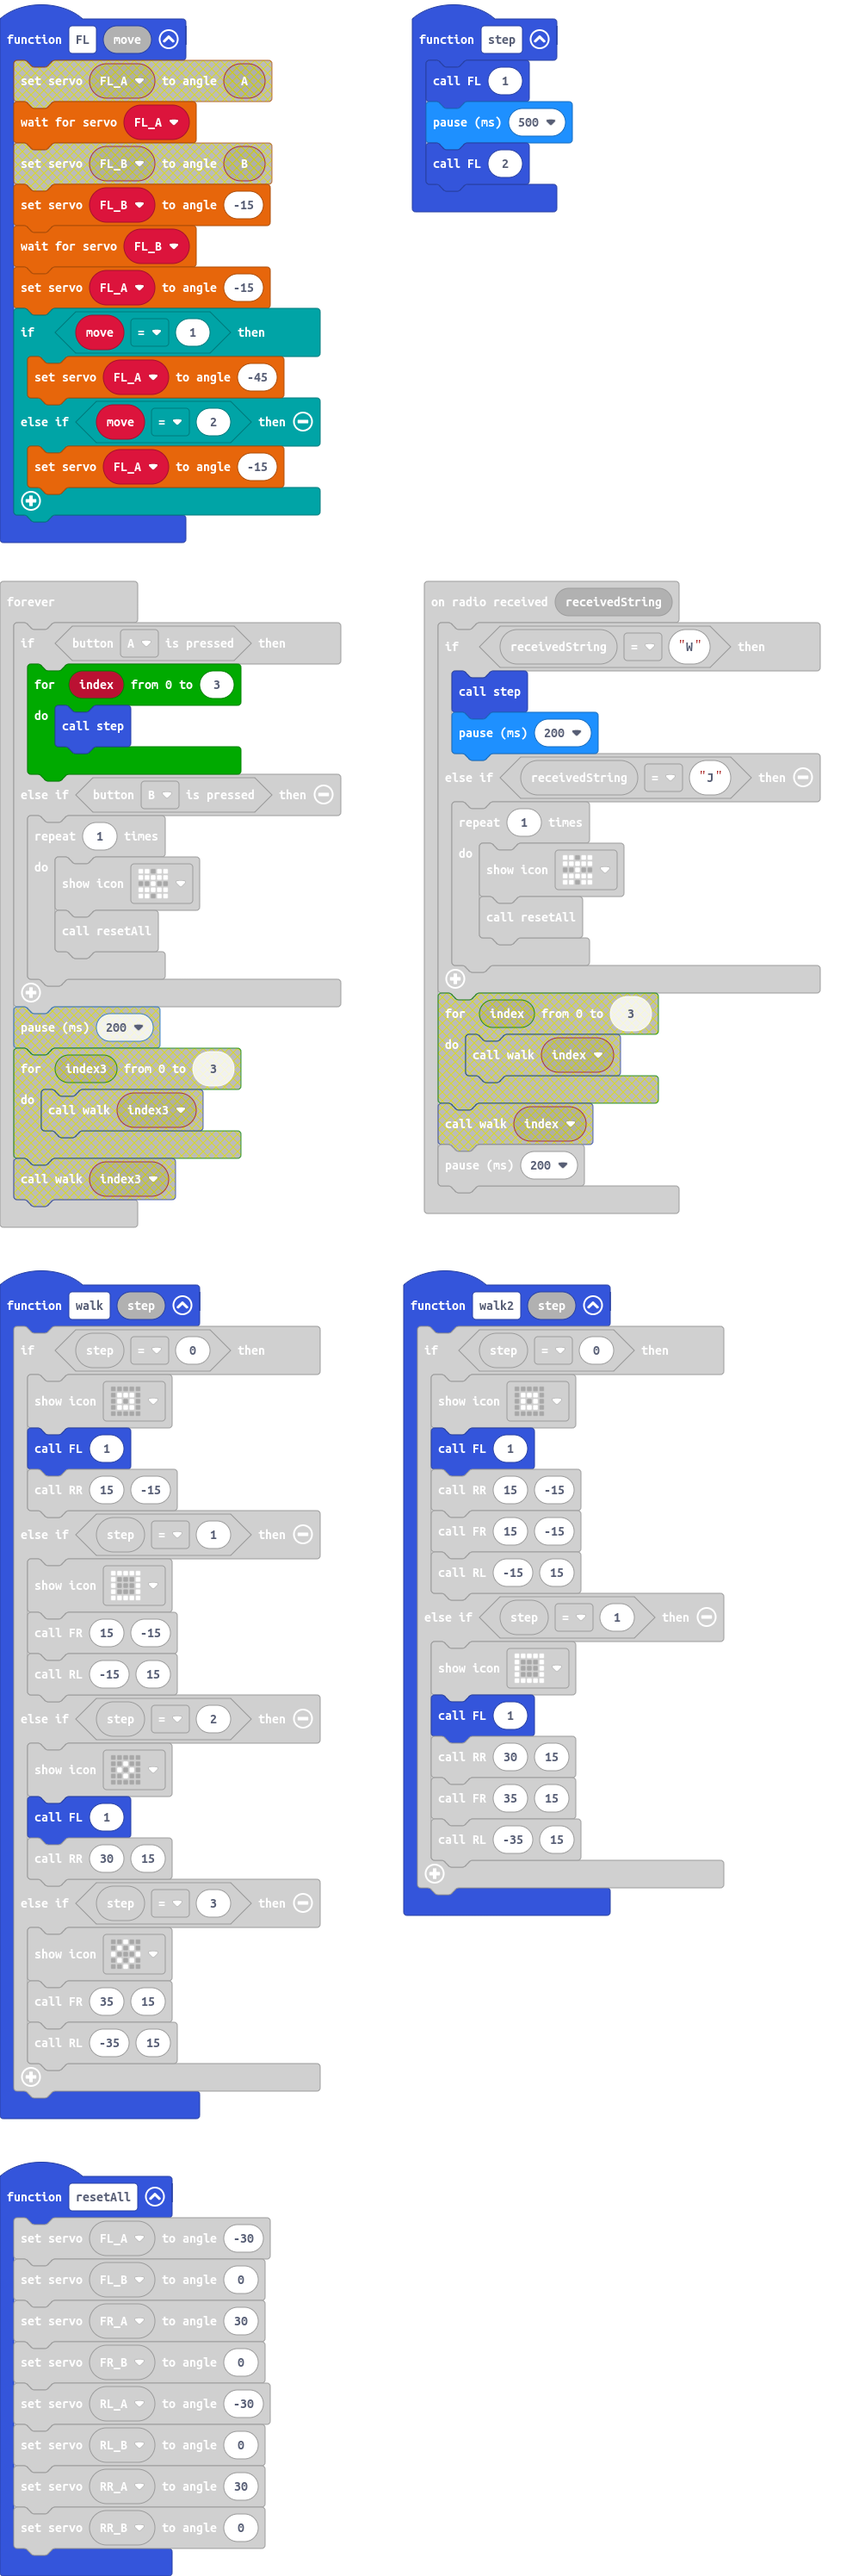
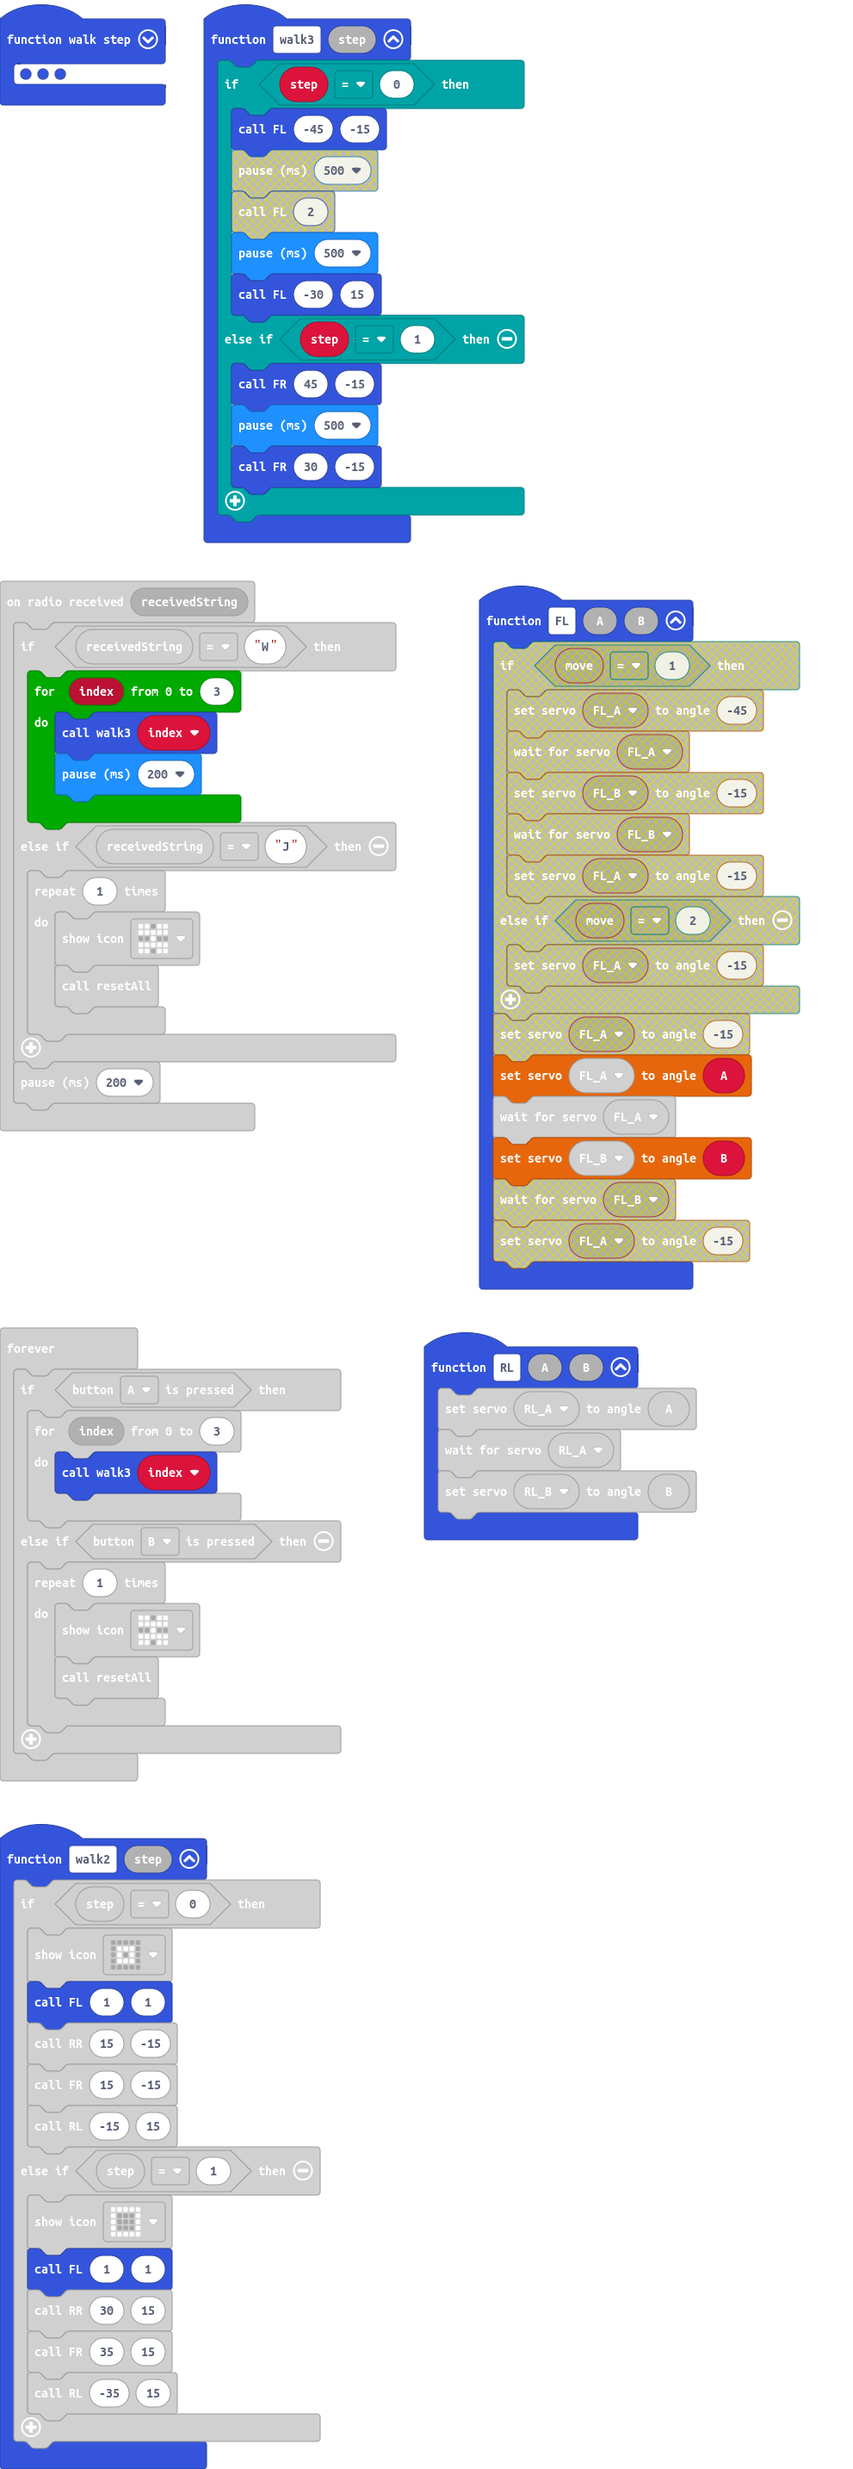
walk 3 is test steps in the two front legs

diff --git a/main.ts b/main.ts
@@ -3,36 +3,36 @@ function FR (A: number, B: number) {
     ServoBit.waitServo(FR_A)
     ServoBit.setServo(FR_B, B)
 }
-function step () {
-    FL(1)
-    basic.pause(500)
-    FL(2)
-}
-function FL (move: number) {
-    if (move == 1) {
-        ServoBit.setServo(FL_A, -45)
-        ServoBit.waitServo(FL_A)
-        ServoBit.setServo(FL_B, -15)
-        ServoBit.waitServo(FL_B)
-        ServoBit.setServo(FL_A, -15)
-    } else if (move == 2) {
-        ServoBit.setServo(FL_A, -15)
+function walk3 (step: number) {
+    if (step == 0) {
+        FL(-45, -15)
+        basic.pause(500)
+        FL(-30, 15)
+    } else if (step == 1) {
+        FR(45, -15)
+        basic.pause(500)
+        FR(30, -15)
     }
 }
-function walk (step2: number) {
-    if (step2 == 0) {
+function FL (A: number, B: number) {
+    ServoBit.setServo(FL_A, A)
+    ServoBit.waitServo(FL_A)
+    ServoBit.setServo(FL_B, B)
+}
+function walk (step: number) {
+    if (step == 0) {
         basic.showIcon(IconNames.SmallSquare)
-        FL(1)
+        FL(1, 1)
         RR(15, -15)
-    } else if (step2 == 1) {
+    } else if (step == 1) {
         basic.showIcon(IconNames.Square)
         FR(15, -15)
         RL(-15, 15)
-    } else if (step2 == 2) {
+    } else if (step == 2) {
         basic.showIcon(IconNames.SmallDiamond)
-        FL(1)
+        FL(1, 1)
         RR(30, 15)
-    } else if (step2 == 3) {
+    } else if (step == 3) {
         basic.showIcon(IconNames.Diamond)
         FR(35, 15)
         RL(-35, 15)
@@ -53,16 +53,16 @@ function RR (A: number, B: number) {
     ServoBit.waitServo(RR_A)
     ServoBit.setServo(RR_B, B)
 }
-function walk2 (step2: number) {
-    if (step2 == 0) {
+function walk2 (step: number) {
+    if (step == 0) {
         basic.showIcon(IconNames.SmallSquare)
-        FL(1)
+        FL(1, 1)
         RR(15, -15)
         FR(15, -15)
         RL(-15, 15)
-    } else if (step2 == 1) {
+    } else if (step == 1) {
         basic.showIcon(IconNames.Square)
-        FL(1)
+        FL(1, 1)
         RR(30, 15)
         FR(35, 15)
         RL(-35, 15)
@@ -70,8 +70,10 @@ function walk2 (step2: number) {
 }
 radio.onReceivedString(function (receivedString) {
     if (receivedString == "W") {
-        step()
-        basic.pause(200)
+        for (let index = 0; index <= 3; index++) {
+            walk3(index)
+            basic.pause(200)
+        }
     } else if (receivedString == "J") {
         for (let index = 0; index < 1; index++) {
             basic.showIcon(IconNames.Butterfly)
@@ -108,7 +110,7 @@ basic.pause(100)
 basic.forever(function () {
     if (input.buttonIsPressed(Button.A)) {
         for (let index = 0; index <= 3; index++) {
-            step()
+            walk3(index)
         }
     } else if (input.buttonIsPressed(Button.B)) {
         for (let index = 0; index < 1; index++) {
